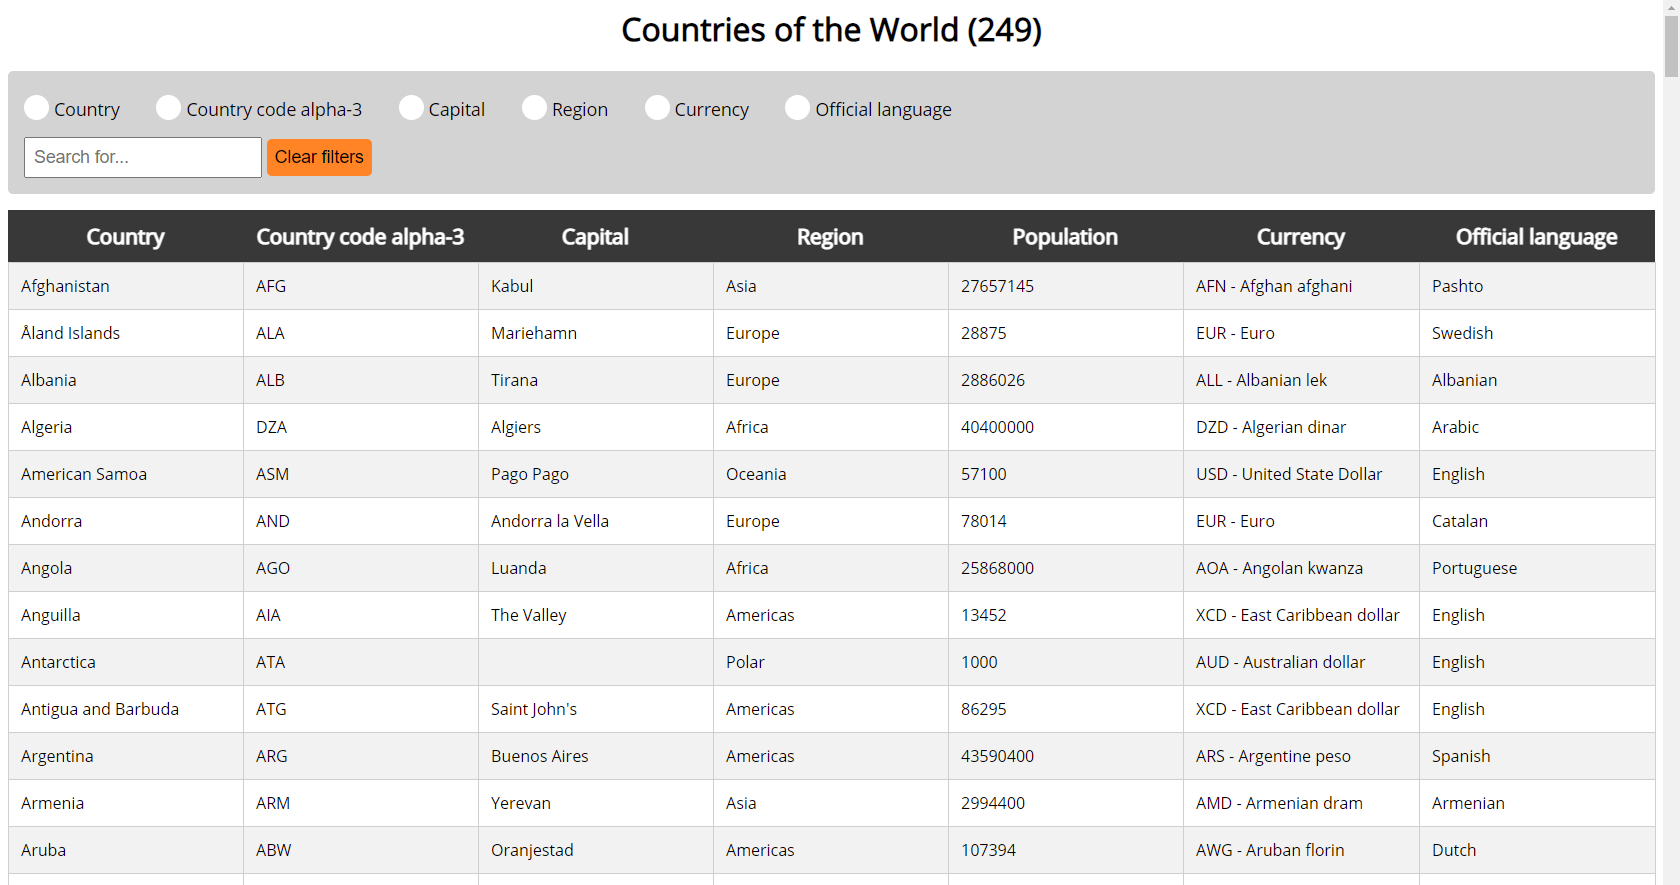
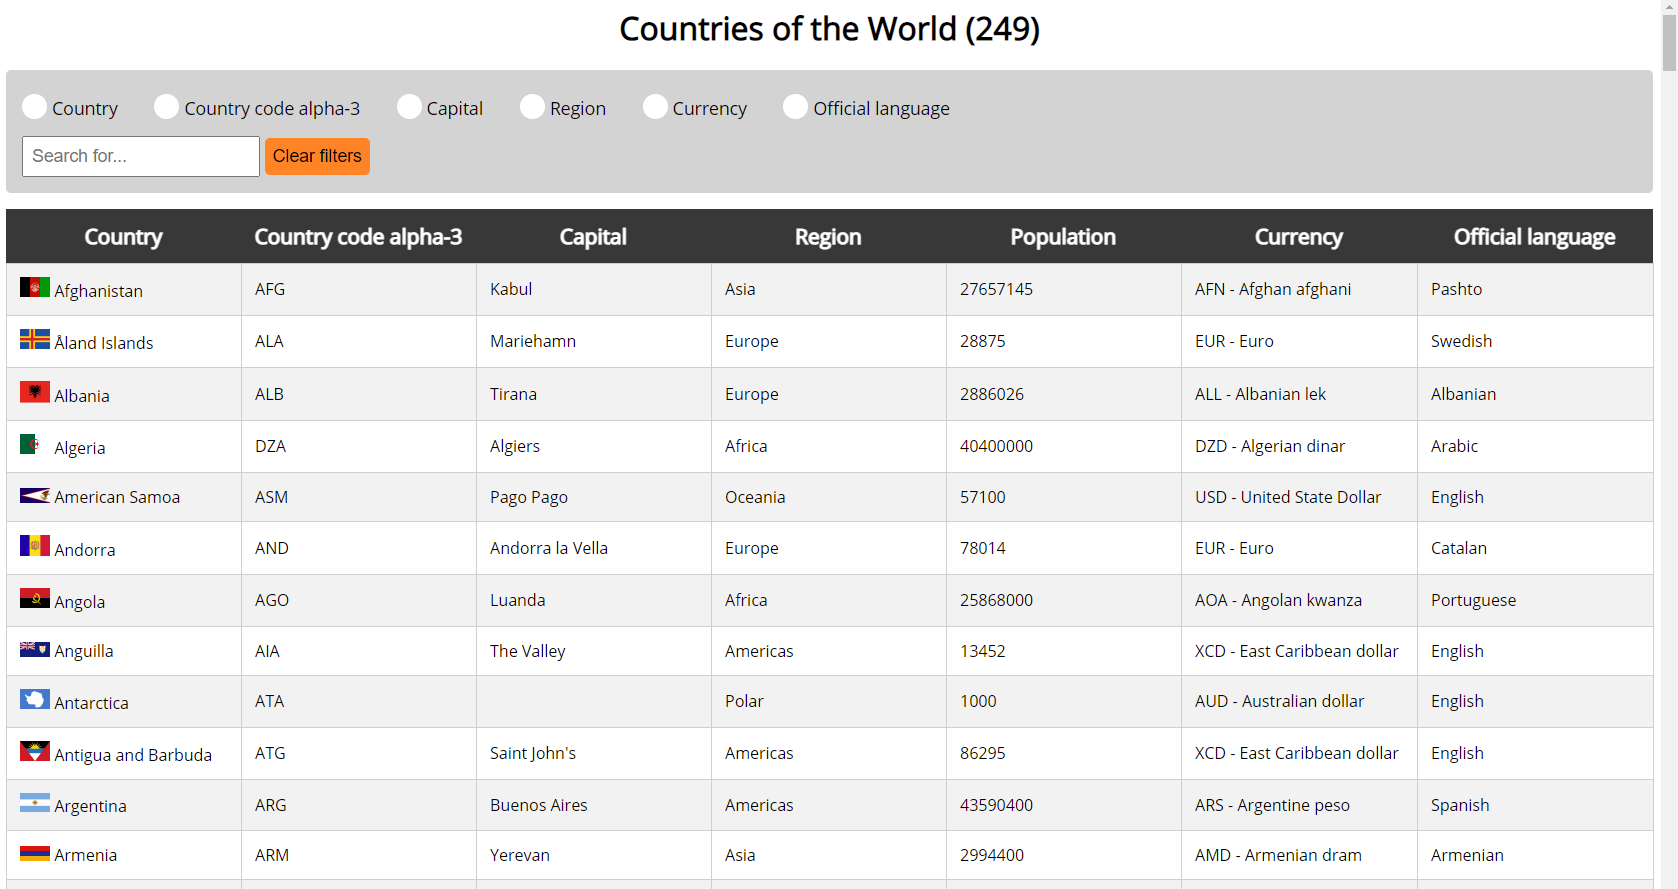
Update app - flags

diff --git a/style.min.css b/style.min.css
@@ -1,1 +1,1 @@
-@import url("https://fonts.googleapis.com/css2?family=Open+Sans&display=swap");*{box-sizing:border-box}body{font-family:'Open Sans', sans-serif}h1{text-align:center}#country-table{border-collapse:collapse;width:100%;position:relative}#country-table th{font-size:1.3rem;width:14.2%;background-color:#383838;color:white;position:sticky;top:0;border:none}#country-table td,#country-table th{padding:12px}#country-table td{border:1px solid #cfcfcf}#country-table tr:nth-child(even){background-color:#f2f2f2}.filters-container{font-size:1.1rem;margin-bottom:1rem;background-color:lightgrey;padding:1rem;border-radius:5px}.filters-container form{margin:0}.filters-container input{font-size:1.1rem;padding:8px;margin-top:1rem}.filters-container label{margin-right:2rem}.filters-container .clear-btn{background-color:#ff8126;border:none;border-radius:5px;cursor:pointer}.filters-container .clear-btn:hover{transition:all 0.5s;background-color:chocolate;color:white}.radio-style{display:inline-block;position:relative;padding-left:30px;padding-top:10px;cursor:pointer;font-size:1.1rem;-webkit-user-select:none;-moz-user-select:none;-ms-user-select:none;user-select:none}.radio-style input{position:absolute;opacity:0;cursor:pointer}.radio-style .radio-mark:after{top:8px;left:8px;width:9px;height:9px;border-radius:50%;background:white}.radio-mark{position:absolute;top:8;left:0;height:25px;width:25px;background-color:white;border-radius:50%}.radio-mark::after{content:"";position:absolute;display:none}.radio-style:hover input ~ .radio-mark{background-color:lightgreen}.radio-style input:checked ~ .radio-mark{background-color:green}.radio-style input:checked ~ .radio-mark:after{display:inline-block}@media only screen and (max-width: 600px){.radio-style input:checked ~ .radio-mark:after{display:block}.radio-style{display:block}}@media only screen and (max-width: 350px){input{width:100%}}
+@import url("https://fonts.googleapis.com/css2?family=Open+Sans&display=swap");*{box-sizing:border-box}body{font-family:'Open Sans', sans-serif}h1{text-align:center}#country-table{border-collapse:collapse;width:100%;position:relative}#country-table th{font-size:1.3rem;width:14.2%;background-color:#383838;color:white;position:sticky;top:0;border:none}#country-table td,#country-table th{padding:13px}#country-table td{border:1px solid #cfcfcf}#country-table tr:nth-child(even){background-color:#f2f2f2}#country-table img{width:30px}#country-table img:hover{position:absolute;transition:0.5s;width:300px}.filters-container{font-size:1.1rem;margin-bottom:1rem;background-color:lightgrey;padding:1rem;border-radius:5px}.filters-container form{margin:0}.filters-container input{font-size:1.1rem;padding:8px;margin-top:1rem}.filters-container label{margin-right:2rem}.filters-container .clear-btn{background-color:#ff8126;border:none;border-radius:5px;cursor:pointer}.filters-container .clear-btn:hover{transition:all 0.5s;background-color:chocolate;color:white}.radio-style{display:inline-block;position:relative;padding-left:30px;padding-top:10px;cursor:pointer;font-size:1.1rem;-webkit-user-select:none;-moz-user-select:none;-ms-user-select:none;user-select:none}.radio-style input{position:absolute;opacity:0;cursor:pointer}.radio-style .radio-mark:after{top:8px;left:8px;width:9px;height:9px;border-radius:50%;background:white}.radio-mark{position:absolute;top:8;left:0;height:25px;width:25px;background-color:white;border-radius:50%}.radio-mark::after{content:"";position:absolute;display:none}.radio-style:hover input ~ .radio-mark{background-color:lightgreen}.radio-style input:checked ~ .radio-mark{background-color:green}.radio-style input:checked ~ .radio-mark:after{display:inline-block}@media only screen and (max-width: 600px){.radio-style input:checked ~ .radio-mark:after{display:block}.radio-style{display:block}}@media only screen and (max-width: 350px){input{width:100%}}

diff --git a/script.js b/script.js
@@ -9,8 +9,9 @@ fetch(url)
       const table = document.getElementById("country-table");
       const tr = document.createElement("tr");
       const sum = document.getElementById("sum");
+      const flag = country.alpha3Code.toLowerCase();
       const text = `
-      <td>${country.name}</td>
+      <td><img src="https://restcountries.eu/data/${flag}.svg"> ${country.name}</td>
       <td>${country.alpha3Code}</td>
       <td>${country.capital}</td>
       <td>${country.region}</td>

diff --git a/style.scss b/style.scss
@@ -23,13 +23,21 @@ h1{
         border: none;
     }
     td, th{
-        padding: 12px;
+        padding: 13px;
     }
     td{
         border: 1px solid rgb(207, 207, 207);
     }
     tr:nth-child(even){
         background-color: #f2f2f2;
+    }
+    img{
+        width: 30px;
+        &:hover{
+            position: absolute;
+            transition: 0.5s;
+            width: 300px;
+        }
     }
 }
 .filters-container{

diff --git a/style.css b/style.css
@@ -28,7 +28,7 @@ h1 {
 }
 
 #country-table td, #country-table th {
-  padding: 12px;
+  padding: 13px;
 }
 
 #country-table td {
@@ -37,6 +37,16 @@ h1 {
 
 #country-table tr:nth-child(even) {
   background-color: #f2f2f2;
+}
+
+#country-table img {
+  width: 30px;
+}
+
+#country-table img:hover {
+  position: absolute;
+  transition: 0.5s;
+  width: 300px;
 }
 
 .filters-container {

diff --git a/README.md b/README.md
@@ -1,4 +1,8 @@
 # Countries Info
 Data fetched from RESTful API - https://restcountries.eu<br />
+### Get the code
+```
+git clone https://github.com/rnycz/countries-info
+```
 ![](images/1.PNG)<br />
 The fetched data is displayed in the table. It is possible to filter data about a specific country.
